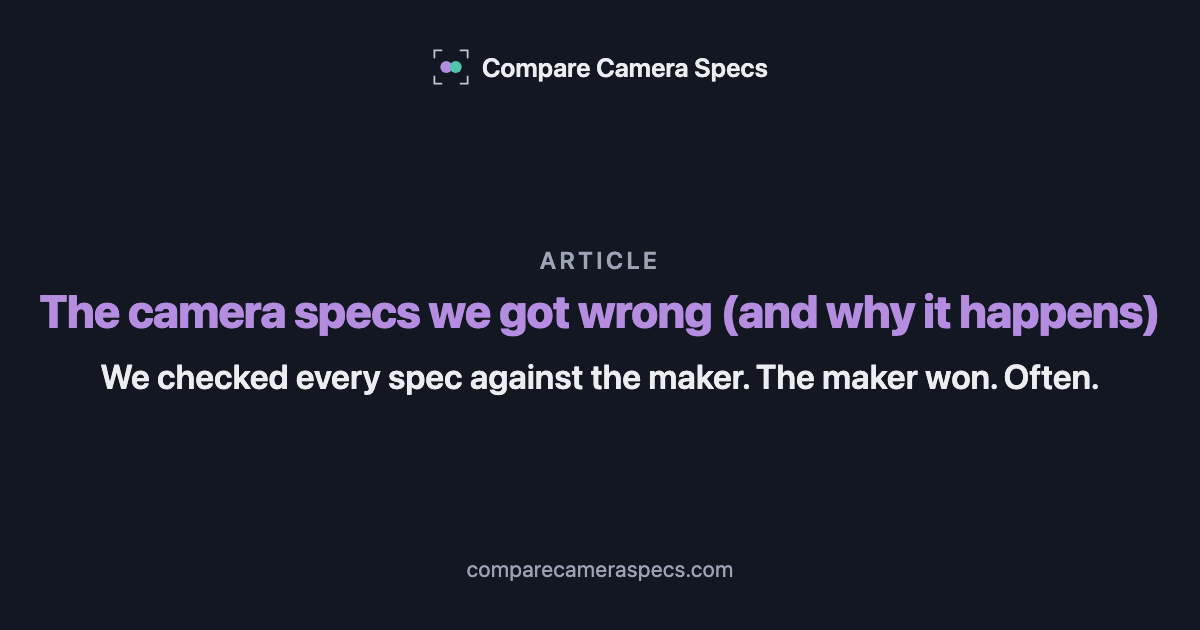
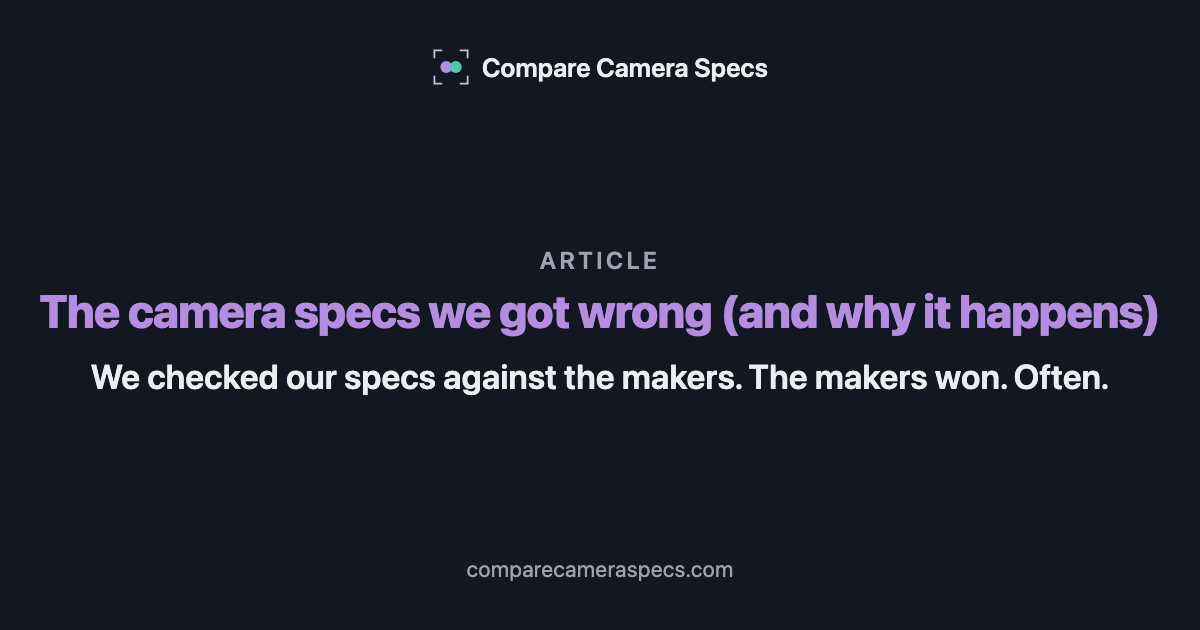
Article: explain why each spec error happened; add Wikipedia and vanishing-PDF sections
Owner review of the draft:
- Each section now says where the wrong figure came from and why the
  pattern happens: the R1 figure had no recorded source (first Canon data,
  June 2026); hand-me-downs from copying the older model (the E-PL8 note
  said "assumed similar to e-pl7"; XF16-55 II carried the 2015 lens's
  specs); blank cells read as "no viewfinder" (and the R50/R50 V muddle);
  the X-T50 named like the sealed X-T5, and no standard sealing wording.
- Sigma section: 44 of 56 current Sigma lenses are sold for several
  mounts and 34 of those weigh differently; the 56mm page lists 7 mounts
  from 256 g (MFT) to 295 g (Z); flange distance explains L vs E length.
- New: Wikipedia-sourced Olympus figures (E-M5 II battery, PEN-F,
  E-M10 II, E-PL5 body-only) and old maker pages/PDFs disappearing
  (Fujifilm, Olympus, Leica), from the Nov 2026 verification reports.
- Removed the owner's own camera; dek no longer claims "every spec";
  E-PL5 moved out of "battery out". Snapshot re-frozen.

Claude-Session: https://claude.ai/code/session_01KyXeQ289MiUa5hE497BBrD

Changed region(s): [[0.0617, 0.573, 0.925, 0.6333]]

diff --git a/content/articles/camera-specs-we-got-wrong-2026.js b/content/articles/camera-specs-we-got-wrong-2026.js
@@ -1,26 +1,39 @@
 // Article (dated, frozen): what checking every spec against the maker found,
-// Nov 2026. Findings from docs/spec-verification/2026-11-14 … 2026-11-17 and
-// the Aug 2026 Sigma L-Mount fix. Draft for the owner, 2026-11-18.
+// and why each kind of error happens, Nov 2026. Findings from
+// docs/spec-verification/2026-11-14 … 2026-11-17, the Aug–Sep 2026 Sigma
+// L-Mount fix and the Nov 2026 X-T50 / XF16-55 II fixes (#92). Draft for the
+// owner, 2026-11-18.
 'use strict';
 
 // What we used to store: history, not data, so it lives here. Each "now"
 // value comes from the snapshot and a claim checks it.
 const BEFORE = {
-  r1Weight: 1570,
+  r1Weight: 1570, // arrived in the first Canon data (June 2026) with no source
   xt100Weight: 394,
+  xf1655Weight: 655, // the 2015 XF16-55mm f/2.8's weight, carried by the II
+  epl8Weight: 357, // "assumed similar to e-pl7" in the item's own note
   summiluxLength: 81, // with the hood on
   xf55200Length: 175, // zoomed out
-  epl5Weight: 279, // body only
   gm2Length: 121.6, // the first GM's length
-  sigmaWrong: 19, sigmaChecked: 22, // L-Mount lenses carrying Sony E figures (Aug 2026)
-  fujiBatch1Mismatches: 19, fujiBatch1Cameras: 13, // Fujifilm's first batch, 2026-11-14
-  xs20Height: 84.5, // stored; Fujifilm says 85.1 mm (and UHS-II, not UHS-I)
+  sigmaWrong: 19, sigmaChecked: 22, // L-Mount lenses carrying Sony E figures (Sep 2026)
+  // Olympus figures our citations attributed to Wikipedia (Sep 2026)
+  em5iiBattery: 580, penfWeight: 434, em10iiWeight: 390, epl5Weight: 279,
+};
+// Facts read from maker pages and our verification reports, Nov 2026.
+const FOUND = {
+  em5iiBatteryEco: 750, // Olympus's power-saving-mode figure for the E-M5 II
+  sigma56Mounts: 7, // mounts on Sigma's own 56mm F1.4 DC DN page
+  flangeL: 20, flangeE: 18, // mm, L-Mount and Sony E flange distances
+  fujiGone: 10, // old Fujifilm spec pages that now redirect to the home page
+  olyGone: 10, // older Olympus cameras with no maker spec source left
+  leicaCameraPdfs: 12, leicaLensPdfs: 17, leicaLensPdfsChecked: 48,
 };
 
 const pick = (brandData, brand, kind, id, fields) => {
   const item = brandData[brand][kind][id];
   if (!item) throw new Error(`${brand}:${id} not found`);
-  const out = { name: item.name, source: (item.specSources || [])[0]?.url || null };
+  const t1 = (item.specSources || []).find(src => src.tier === 'T1');
+  const out = { name: item.name, source: (t1 || (item.specSources || [])[0] || {}).url || null };
   for (const f of fields) out[f] = item[f] ?? null;
   return out;
 };
@@ -29,7 +42,7 @@ module.exports = {
   slug: 'camera-specs-we-got-wrong-2026',
   title: 'Camera Specs We Got Wrong in 2026, and Why',
   headline: 'The camera specs we got wrong (and why it happens)',
-  dek: 'We checked every spec against the maker. The maker won. Often.',
+  dek: 'We checked our specs against the makers. The makers won. Often.',
   published: '2026-11-18',
   query: {
     text: 'camera specs wrong / which camera spec sites are accurate',
@@ -38,30 +51,50 @@ module.exports = {
 
   snapshot(brandData) {
     const cited = new Set();
+    // Sigma designs sold for several mounts: one entry per lens name per mount.
+    const sigma = new Map();
     for (const [b, data] of Object.entries(brandData)) {
       // Tier T1 = the maker's own published figures (verify-specs source tiers).
       const maker = x => (x.specSources || []).some(src => src.tier === 'T1');
       for (const [id, c] of Object.entries(data.CAMERAS)) if (maker(c)) cited.add(`camera|${b}|${id}`);
-      for (const l of Object.values(data.LENSES)) if (maker(l)) cited.add(`lens|${l.mount}|${l.manufacturer}|${l.name}`);
+      for (const l of Object.values(data.LENSES)) {
+        if (maker(l)) cited.add(`lens|${l.mount}|${l.manufacturer}|${l.name}`);
+        if (l.manufacturer === 'Sigma' && !l.discontinued && !l.preRelease) {
+          const m = sigma.get(l.name) || new Map();
+          m.set(l.mount, l.weight);
+          sigma.set(l.name, m);
+        }
+      }
     }
+    const multi = [...sigma.values()].filter(m => m.size > 1);
     return {
       cited: cited.size,
+      sigmaLenses: sigma.size,
+      sigmaMulti: multi.length,
+      sigmaMultiWeightDiffers: multi.filter(m => new Set(m.values()).size > 1).length,
       r1: pick(brandData, 'canon', 'CAMERAS', 'eos-r1', ['weight']),
-      r50v: pick(brandData, 'canon', 'CAMERAS', 'eos-r50v', ['width', 'height', 'depth']),
-      r50: pick(brandData, 'canon', 'CAMERAS', 'eos-r50', ['width', 'height', 'depth', 'evfType']),
+      r50v: pick(brandData, 'canon', 'CAMERAS', 'eos-r50v', ['width', 'height', 'depth', 'weight', 'evfType']),
+      r50: pick(brandData, 'canon', 'CAMERAS', 'eos-r50', ['width', 'height', 'depth', 'weight', 'evfType']),
       r100: pick(brandData, 'canon', 'CAMERAS', 'eos-r100', ['evfType']),
       xt100: pick(brandData, 'fujifilm', 'CAMERAS', 'x-t100', ['weight', 'evfType']),
       xt200: pick(brandData, 'fujifilm', 'CAMERAS', 'x-t200', ['evfType']),
       xt50: pick(brandData, 'fujifilm', 'CAMERAS', 'x-t50', ['weatherSealed']),
-      xs20: pick(brandData, 'fujifilm', 'CAMERAS', 'x-s20', ['height', 'cardSlots']),
+      xt5: { ...pick(brandData, 'fujifilm', 'CAMERAS', 'x-t5', ['weatherSealed']), source: 'https://www.fujifilm-x.com/global/products/cameras/x-t5/' },
       r8: pick(brandData, 'canon', 'CAMERAS', 'eos-r8', ['weatherSealed']),
-      om5ii: pick(brandData, 'olympus', 'CAMERAS', 'om-5-ii', ['depth']),
+      xf1655: pick(brandData, 'fujifilm', 'LENSES', 'xf-16-55mm-f28-ii', ['weight']),
+      epl8: pick(brandData, 'olympus', 'CAMERAS', 'e-pl8', ['weight']),
       summilux: pick(brandData, 'leica', 'LENSES', 'summilux-m-28mm-f14-asph', ['length']),
       xf55200: pick(brandData, 'fujifilm', 'LENSES', 'xf-55-200mm-f35-48', ['length']),
-      epl5: pick(brandData, 'olympus', 'CAMERAS', 'e-pl5', ['weight']),
       gm2: pick(brandData, 'sony', 'LENSES', 'fe-16-35mm-f28-gm-ii', ['length']),
       gm1: pick(brandData, 'sony', 'LENSES', 'fe-16-35mm-f28-gm', ['length']),
       sigma: pick(brandData, 'sigma', 'LENSES', 'sigma-24-70mm-f28-dg-ii', ['length']),
+      sigma100400: pick(brandData, 'sigma', 'LENSES', 'sigma-100-400mm-f5-63-dg', ['weatherSealed']),
+      sigma56mft: pick(brandData, 'panasonic', 'LENSES', 'sigma-56mm-f14-mft', ['weight']),
+      sigma56z: pick(brandData, 'nikon', 'LENSES', 'sigma-56mm-f14', ['weight']),
+      em5ii: pick(brandData, 'olympus', 'CAMERAS', 'e-m5-ii', ['batteryLife']),
+      penf: pick(brandData, 'olympus', 'CAMERAS', 'pen-f', ['weight']),
+      em10ii: pick(brandData, 'olympus', 'CAMERAS', 'e-m10-ii', ['weight']),
+      epl5: pick(brandData, 'olympus', 'CAMERAS', 'e-pl5', ['weight']),
     };
   },
 
@@ -72,61 +105,89 @@ module.exports = {
   claims(s) {
     return [
       ['The EOS R1 weighs 1,115 g, 455 g less than we listed', s.r1.weight === 1115 && BEFORE.r1Weight - s.r1.weight === 455],
+      ['The 455 g gap is heavier than a whole EOS R50', BEFORE.r1Weight - s.r1.weight > s.r50.weight],
       ['The EOS R50 V is much thinner than the EOS R50 whose figures it carried', s.r50.depth - s.r50v.depth > 20],
+      ['The XF 16-55mm f/2.8 II weighs 410 g, not the original’s 655 g', s.xf1655.weight === 410],
+      ['The E-PL8 is not the weight we assumed from the E-PL7', s.epl8.weight !== BEFORE.epl8Weight],
       ['The EOS R50, EOS R100, X-T100 and X-T200 all have an EVF', [s.r50, s.r100, s.xt100, s.xt200].every(c => c.evfType === 'EVF')],
+      ['The EOS R50 V has no viewfinder', s.r50v.evfType == null],
       ['The X-T100 weighs 448 g, 54 g more than we listed', s.xt100.weight === 448 && s.xt100.weight - BEFORE.xt100Weight === 54],
-      ['The X-T50 is not weather-sealed; the EOS R8 is weather-resistant', s.xt50.weatherSealed === false && s.r8.weatherSealed === true],
+      ['The X-T50 is not weather-sealed; the X-T5 is; the EOS R8 is weather-resistant', s.xt50.weatherSealed === false && s.xt5.weatherSealed === true && s.r8.weatherSealed === true],
+      ['A mount gasket alone does not count as sealed (Sigma 100-400mm)', s.sigma100400.weatherSealed === false],
       ['The Summilux-M 28mm is 67 mm long without its hood', s.summilux.length === 67],
       ['The XF 55-200mm is 118 mm long at rest', s.xf55200.length === 118],
-      ['The E-PL5 weighs 325 g with battery and card', s.epl5.weight === 325],
       ['The FE 16-35mm GM II is shorter than the GM it replaced', s.gm2.length === 111.5 && s.gm1.length === BEFORE.gm2Length],
-      ['Every finding links its maker source', ['r1', 'r50v', 'r100', 'xt100', 'xt200', 'xt50', 'xs20', 'r8', 'summilux', 'xf55200', 'epl5', 'gm2', 'sigma'].every(k => /^https:/.test(s[k].source || ''))],
-      ['More than 800 cameras and lenses cite the maker\u2019s own figures', s.cited > 800],
-      ['The X-S20 is 85.1 mm tall (0.6 mm more than we had) and takes UHS-II cards', s.xs20.height === 85.1 && /UHS-II/.test(s.xs20.cardSlots || '')],
+      ['Most current Sigma lenses are sold for more than one mount, and most of those weigh differently by mount',
+        s.sigmaMulti > s.sigmaLenses / 2 && s.sigmaMultiWeightDiffers > s.sigmaMulti / 2],
+      ['Sigma’s 56mm f/1.4 weighs 256 g on Micro Four Thirds and 295 g on Nikon Z', s.sigma56mft.weight === 256 && s.sigma56z.weight === 295],
+      ['Olympus: E-M5 II battery 310 shots, PEN-F 427 g, E-M10 II 399 g, E-PL5 325 g',
+        s.em5ii.batteryLife === 310 && s.penf.weight === 427 && s.em10ii.weight === 399 && s.epl5.weight === 325],
+      ['Every finding links its maker source',
+        ['r1', 'r50v', 'r100', 'xt100', 'xt200', 'xt50', 'xt5', 'r8', 'xf1655', 'epl8', 'summilux', 'xf55200', 'gm2', 'sigma', 'sigma100400', 'sigma56z', 'em5ii', 'penf', 'em10ii', 'epl5']
+          .every(k => /^https:/.test(s[k].source || ''))],
+      ['More than 800 cameras and lenses cite the maker’s own figures', s.cited > 800],
     ];
   },
 
   render(s, k) {
     const mm = n => `${n} mm`;
+    const g = n => `${n.toLocaleString('en-US')} g`;
     return `
-<p class="guide-answer">We checked ${s.cited.toLocaleString('en-US')} cameras and lenses against their makers' own spec pages. Among the misses: a Canon EOS R1 listed <strong>${BEFORE.r1Weight - s.r1.weight} g</strong> too heavy, four cameras listed without the viewfinder they actually have, and a camera wearing its sibling's dimensions.</p>
+<p class="guide-answer">When we went back to the makers' own spec pages, we found a Canon EOS R1 listed <strong>${BEFORE.r1Weight - s.r1.weight} g</strong> too heavy, four cameras listed without the viewfinder they actually have, and a camera wearing its sibling's dimensions.</p>
 
-<p>Spec sites copy from each other. So did we. Here's what turned up when we went back to the source, and the patterns behind it, so you can spot them elsewhere.</p>
+<p>Most wrong specs aren't typos. They're numbers from the wrong place: an older model, a different mount, a secondhand source, or nowhere at all. Here's what we found, and why each one happened.</p>
 
 <h2>1. The phantom 455 grams</h2>
-<p>We had Canon's flagship EOS R1 at ${BEFORE.r1Weight.toLocaleString('en-US')} g. ${k.src(s.r1.source, 'Canon says')} ${s.r1.weight.toLocaleString('en-US')} g with battery and card. That's a whole prime lens of difference.</p>
-<p>See the corrected numbers in the ${k.a('canon/vs/eos-r1-vs-eos-r3', 'EOS R1 vs EOS R3 comparison')}.</p>
+<p>We had Canon's flagship EOS R1 at ${g(BEFORE.r1Weight)}. ${k.src(s.r1.source, 'Canon says')} ${g(s.r1.weight)} with battery and card. The gap alone weighs more than an entire EOS R50.</p>
+<p>Where did ${g(BEFORE.r1Weight)} come from? Honestly, we don't know. It arrived with our first batch of Canon data in June 2026, put together with the help of an AI assistant, and no source was recorded. The rest of that entry was off too: the size, the megapixels and the screen.</p>
+<p>That's the real lesson. A number without a source can't be checked, so nobody ever fixes it. See the corrected figures in the ${k.a('canon/vs/eos-r1-vs-eos-r3', 'EOS R1 vs EOS R3 comparison')}.</p>
 
 <h2>2. Hand-me-down specs</h2>
-<p>The classic: a new model inheriting its older sibling's numbers. The EOS R50 V carried the EOS R50's dimensions. ${k.src(s.r50v.source, 'In reality')} it's ${mm(s.r50v.depth)} deep, not ${mm(s.r50.depth)}.</p>
-<p>Same story for the OM-5 II (it had the OM-5's depth) and Sony's FE 16-35mm GM II, which carried the first GM's length of ${mm(s.gm1.length)}. ${k.src(s.gm2.source, 'Sony lists')} ${mm(s.gm2.length)}.</p>
-<p>See how different the R50 V really is in the ${k.a('canon/size/eos-r50v-vs-eos-r50', 'EOS R50 V vs EOS R50 size comparison')}.</p>
+<p>A classic: a new model carrying its predecessor's numbers. The EOS R50 V had the EOS R50's dimensions and weight. ${k.src(s.r50v.source, 'In reality')} it's ${mm(s.r50v.depth)} deep, not ${mm(s.r50.depth)}.</p>
+<p>Fujifilm's XF 16-55mm f/2.8 II carried the 2015 original's specs: ${g(BEFORE.xf1655Weight)} instead of ${k.src(s.xf1655.source, `${g(s.xf1655.weight)}`)}. The OM-5 II had the OM-5's depth, and Sony's FE 16-35mm GM II had the first GM's length (${k.src(s.gm2.source, `${mm(s.gm2.length)}`)}, not ${mm(s.gm1.length)}).</p>
+<p>Why? The quick way to add a new model is to start from the old one and change what the launch news mentions. Launch news is about sensors and autofocus, not millimeters, so the old size and weight ride along. Our own note on the Olympus E-PL8 said it outright: dimensions "assumed similar to e-pl7". ${k.src(s.epl8.source, "They weren't")}.</p>
+<p>See how different the R50 V really is in the ${k.a('canon/size/eos-r50v-vs-eos-r50', 'EOS R50 V vs EOS R50 size comparison')}, or the ${k.a('olympus/vs/om-5-ii-vs-om-5', 'OM-5 II vs OM-5')}.</p>
 
 <h2>3. The viewfinders that vanished</h2>
-<p>Four cameras were listed with no viewfinder at all: Canon's EOS R50 and EOS R100, and Fujifilm's X-T100 and X-T200. All four have an electronic viewfinder, as ${k.src(s.r100.source, 'Canon')} and ${k.src(s.xt200.source, 'Fujifilm')} list.</p>
+<p>Four cameras were listed with no viewfinder: Canon's EOS R50 and EOS R100, and Fujifilm's X-T100 and X-T200. All four have an electronic viewfinder, as ${k.src(s.r100.source, 'Canon')} and ${k.src(s.xt200.source, 'Fujifilm')} list.</p>
+<p>Why? In a spec table, "we don't know" and "it doesn't have one" look exactly the same: an empty cell. All four are entry-level bodies, where a missing viewfinder sounds believable, so nobody questioned the blank.</p>
+<p>The R50 also has a near-twin that really has no viewfinder: the EOS R50 V. Our R50 V had the R50's size, and our R50 had the R50 V's missing viewfinder. It looks like the two got muddled.</p>
 <p>The X-T100 was also ${s.xt100.weight - BEFORE.xt100Weight} g light: ${k.src(s.xt100.source, 'Fujifilm says')} ${s.xt100.weight} g, not ${BEFORE.xt100Weight}. Compare the ${k.a('canon/vs/eos-r50-vs-eos-r100', 'EOS R50 and EOS R100')}, or the ${k.a('fujifilm/#cameras=x-t100,x-t200', 'X-T100 and X-T200')}.</p>
 
 <h2>4. Weather sealing, both ways</h2>
-<p>We had the Fujifilm X-T50 down as weather-sealed. ${k.src(s.xt50.source, 'Fujifilm never says so')}, and it isn't.</p>
-<p>The Canon EOS R8 went the other way: we had it unsealed, but ${k.src(s.r8.source, 'Canon lists')} "weather-resistant construction". See the ${k.a('fujifilm/vs/x-t50-vs-x100v', 'X-T50 vs X100V')} and ${k.a('canon/vs/eos-r8-vs-eos-r10', 'EOS R8 vs EOS R10')} comparisons.</p>
+<p>We had the Fujifilm X-T50 down as weather-sealed. ${k.src(s.xt50.source, 'Fujifilm never says so')}, and reviewers list the lack of sealing as a downside.</p>
+<p>The likely culprit is its name. The X-T50 sounds like a smaller X-T5, and the X-T5 ${k.src(s.xt5.source, 'has 56 weather-sealed points')}. Family resemblance isn't a spec.</p>
+<p>The Canon EOS R8 went the other way: we had it unsealed, but ${k.src(s.r8.source, 'Canon lists')} "weather-resistant construction".</p>
+<p>Why is this so easy to get wrong? There's no standard. Canon says "weather-resistant", Sigma says "dust and splash resistant", and on its ${k.src(s.sigma100400.source, '100-400mm')} that means a seal at the mount only. Many makers just say nothing. Silence isn't a no, but it isn't a yes either. We now mark a camera or lens sealed only when its maker says so. See the ${k.a('fujifilm/vs/x-t50-vs-x100v', 'X-T50 vs X100V')} and ${k.a('canon/vs/eos-r8-vs-eos-r10', 'EOS R8 vs EOS R10')}.</p>
 
-<h2>5. Hood on, zoomed out, battery out</h2>
+<h2>5. Hood on, zoomed out</h2>
 <p>Some numbers aren't wrong, just measured differently. Leica's Summilux-M 28mm f/1.4 was ${mm(BEFORE.summiluxLength)} long with its hood on; ${k.src(s.summilux.source, 'without it')} it's ${mm(s.summilux.length)}.</p>
-<p>Fujifilm's XF 55-200mm was listed at ${mm(BEFORE.xf55200Length)}, its length zoomed all the way out. ${k.src(s.xf55200.source, 'At rest')} it's ${mm(s.xf55200.length)}. And the Olympus E-PL5 was ${BEFORE.epl5Weight} g body only; ${k.src(s.epl5.source, 'with battery and card')} it's ${s.epl5.weight} g, the way we list every camera.</p>
+<p>Fujifilm's XF 55-200mm was listed at ${mm(BEFORE.xf55200Length)}, its length zoomed all the way out. ${k.src(s.xf55200.source, 'At rest')} it's ${mm(s.xf55200.length)}.</p>
 
-<h2>6. Right lens, wrong mount</h2>
-<p>Third-party lenses are made for several mounts, and the sizes differ. ${BEFORE.sigmaWrong} of the ${BEFORE.sigmaChecked} Sigma L-Mount lenses we checked were carrying their Sony E-mount dimensions.</p>
-<p>${k.src(s.sigma.source, 'Sigma’s spec tables')} list each mount separately, and the L-Mount versions are usually a couple of millimeters shorter. Browse the corrected ${k.a('mount/l-mount', 'L-Mount lenses')}.</p>
+<h2>6. Same lens, many mounts</h2>
+<p>Sigma makes most of its lenses for several camera systems. Of the ${s.sigmaLenses} current Sigma lenses in our database, ${s.sigmaMulti} are sold for more than one mount, and ${s.sigmaMultiWeightDiffers} of those weigh differently from one mount to the next.</p>
+<p>${k.src(s.sigma56z.source, "Sigma's page for the 56mm f/1.4")} lists ${FOUND.sigma56Mounts} mounts, from ${g(s.sigma56mft.weight)} on Micro Four Thirds to ${g(s.sigma56z.weight)} on Nikon Z. Each mount has its own diameter and sits a different distance from the sensor, so the barrel changes. Same glass, different lens.</p>
+<p>That's what caught us. ${BEFORE.sigmaWrong} of the ${BEFORE.sigmaChecked} Sigma L-Mount lenses we checked were carrying their Sony E-mount dimensions, read from the wrong row of ${k.src(s.sigma.source, "Sigma's spec table")}. L-Mount sits ${FOUND.flangeL - FOUND.flangeE} mm further from the sensor than Sony E (${FOUND.flangeL} mm vs ${FOUND.flangeE} mm), so L-Mount barrels are usually about ${FOUND.flangeL - FOUND.flangeE} mm shorter. Browse the corrected ${k.a('mount/l-mount', 'L-Mount lenses')}, or ${k.a('mount/z-mount', 'every Nikon Z lens')}.</p>
+
+<h2>7. Wikipedia isn't the maker</h2>
+<p>When we first added ${k.a('olympus/', 'Olympus')}, most of its cameras cited Wikipedia. Then we checked them against Olympus's own spec sheets.</p>
+<p>The E-M5 Mark II's battery life, as we'd taken it from Wikipedia, was ${BEFORE.em5iiBattery} shots. ${k.src(s.em5ii.source, 'Olympus says')} ${s.em5ii.batteryLife}, or ${FOUND.em5iiBatteryEco} in power-saving mode. ${BEFORE.em5iiBattery} matches neither. The PEN-F was ${BEFORE.penfWeight - s.penf.weight} g off and the E-M10 Mark II ${s.em10ii.weight - BEFORE.em10iiWeight} g.</p>
+<p>And the E-PL5's ${BEFORE.epl5Weight} g wasn't wrong, just body only. ${k.src(s.epl5.source, 'With battery and card')}, the way we list every camera, it's ${s.epl5.weight} g. Wikipedia is only as good as the reviews and spec sites it cites, which brings us back to everyone copying everyone.</p>
+
+<h2>8. When the maker's page disappears</h2>
+<p>Makers quietly delete old spec pages. For ${FOUND.fujiGone} older Fujifilm cameras, including the original X100 and X-Pro1, the spec pages now redirect to Fujifilm's home page. Only the owner's manuals are left.</p>
+<p>Olympus is worse: ${FOUND.olyGone} older cameras have no maker spec page left at all. For others, the archive is a picture of the old page, which we had to run through text recognition, in Japanese.</p>
+<p>${k.a('leica/', 'Leica')}'s PDFs vanish too: ${FOUND.leicaCameraPdfs} of the camera spec sheets we'd cited, and ${FOUND.leicaLensPdfs} of ${FOUND.leicaLensPdfsChecked} lens sheets, now return errors. Once the maker's page is gone, the secondhand copies become the only record, mistakes and all.</p>
 
 <h2>How to spot a bad spec</h2>
 <ul class="guide-links">
 <li><strong>Two models, same numbers?</strong> Suspicious. New bodies rarely match old ones to the millimeter.</li>
-<li><strong>Check what's included.</strong> Battery and card? Hood? Zoomed in or out?</li>
+<li><strong>Check what's included.</strong> Battery and card? Hood? Zoomed in or out? Which mount?</li>
 <li><strong>Go to the maker.</strong> If the maker doesn't claim it (weather sealing, especially), don't believe it.</li>
+<li><strong>No source, no trust.</strong> A figure nobody can trace is a guess.</li>
 </ul>
-<p>Nobody's safe. Fujifilm, the brand I shoot with, had ${BEFORE.fujiBatch1Mismatches} mismatches across its first ${BEFORE.fujiBatch1Cameras} cameras. Even my own X-S20 was ${(s.xs20.height - BEFORE.xs20Height).toFixed(1)} mm too short and missing its ${k.src(s.xs20.source, 'UHS-II card support')}.</p>
 
 <h2>What we do now</h2>
-<p>Every camera and lens we've checked now links to its maker's own spec page, shown under References in the ${k.a('compare/', 'comparison tool')}. That's ${s.cited.toLocaleString('en-US')} so far, and counting. ${k.a('about', 'How we source our data')}.</p>`;
+<p>Every camera and lens we check now links to its maker's own spec page, shown under References in the ${k.a('compare/', 'comparison tool')}. That's ${s.cited.toLocaleString('en-US')} so far, and counting. ${k.a('about', 'How we source our data')}.</p>`;
   },
 };

diff --git a/articles/camera-specs-we-got-wrong-2026.html b/articles/camera-specs-we-got-wrong-2026.html
@@ -149,47 +149,64 @@
   <main class="guide-main">
     <article class="guide">
       <h1>The camera specs we got wrong (and why it happens)</h1>
-      <p class="guide-dek">We checked every spec against the maker. The maker won. Often.</p>
+      <p class="guide-dek">We checked our specs against the makers. The makers won. Often.</p>
       <p class="guide-byline">By Compare Camera Specs &middot; Published <time datetime="2026-11-18">18 November 2026</time></p>
-<p class="guide-answer">We checked 1,369 cameras and lenses against their makers' own spec pages. Among the misses: a Canon EOS R1 listed <strong>455 g</strong> too heavy, four cameras listed without the viewfinder they actually have, and a camera wearing its sibling's dimensions.</p>
+<p class="guide-answer">When we went back to the makers' own spec pages, we found a Canon EOS R1 listed <strong>455 g</strong> too heavy, four cameras listed without the viewfinder they actually have, and a camera wearing its sibling's dimensions.</p>
 
-<p>Spec sites copy from each other. So did we. Here's what turned up when we went back to the source, and the patterns behind it, so you can spot them elsewhere.</p>
+<p>Most wrong specs aren't typos. They're numbers from the wrong place: an older model, a different mount, a secondhand source, or nowhere at all. Here's what we found, and why each one happened.</p>
 
 <h2>1. The phantom 455 grams</h2>
-<p>We had Canon's flagship EOS R1 at 1,570 g. <a href="https://www.canon.co.uk/cameras/eos-r1/specifications/" target="_blank" rel="noopener" data-goatcounter-click="article-link:camera-specs-we-got-wrong-2026:source:canon.co.uk" data-goatcounter-title="Article source: canon.co.uk">Canon says</a> 1,115 g with battery and card. That's a whole prime lens of difference.</p>
-<p>See the corrected numbers in the <a href="../canon/vs/eos-r1-vs-eos-r3" data-goatcounter-click="article-link:camera-specs-we-got-wrong-2026:canon/vs/eos-r1-vs-eos-r3" data-goatcounter-title="Article link: EOS R1 vs EOS R3 comparison">EOS R1 vs EOS R3 comparison</a>.</p>
+<p>We had Canon's flagship EOS R1 at 1,570 g. <a href="https://www.canon.co.uk/cameras/eos-r1/specifications/" target="_blank" rel="noopener" data-goatcounter-click="article-link:camera-specs-we-got-wrong-2026:source:canon.co.uk" data-goatcounter-title="Article source: canon.co.uk">Canon says</a> 1,115 g with battery and card. The gap alone weighs more than an entire EOS R50.</p>
+<p>Where did 1,570 g come from? Honestly, we don't know. It arrived with our first batch of Canon data in June 2026, put together with the help of an AI assistant, and no source was recorded. The rest of that entry was off too: the size, the megapixels and the screen.</p>
+<p>That's the real lesson. A number without a source can't be checked, so nobody ever fixes it. See the corrected figures in the <a href="../canon/vs/eos-r1-vs-eos-r3" data-goatcounter-click="article-link:camera-specs-we-got-wrong-2026:canon/vs/eos-r1-vs-eos-r3" data-goatcounter-title="Article link: EOS R1 vs EOS R3 comparison">EOS R1 vs EOS R3 comparison</a>.</p>
 
 <h2>2. Hand-me-down specs</h2>
-<p>The classic: a new model inheriting its older sibling's numbers. The EOS R50 V carried the EOS R50's dimensions. <a href="https://www.canon.co.uk/cameras/eos-r50v/specifications/" target="_blank" rel="noopener" data-goatcounter-click="article-link:camera-specs-we-got-wrong-2026:source:canon.co.uk" data-goatcounter-title="Article source: canon.co.uk">In reality</a> it's 45.2 mm deep, not 68.8 mm.</p>
-<p>Same story for the OM-5 II (it had the OM-5's depth) and Sony's FE 16-35mm GM II, which carried the first GM's length of 121.6 mm. <a href="https://electronics.sony.com/imaging/lenses/full-frame-e-mount/p/sel1635gm2" target="_blank" rel="noopener" data-goatcounter-click="article-link:camera-specs-we-got-wrong-2026:source:electronics.sony.com" data-goatcounter-title="Article source: electronics.sony.com">Sony lists</a> 111.5 mm.</p>
-<p>See how different the R50 V really is in the <a href="../canon/size/eos-r50v-vs-eos-r50" data-goatcounter-click="article-link:camera-specs-we-got-wrong-2026:canon/size/eos-r50v-vs-eos-r50" data-goatcounter-title="Article link: EOS R50 V vs EOS R50 size comparison">EOS R50 V vs EOS R50 size comparison</a>.</p>
+<p>A classic: a new model carrying its predecessor's numbers. The EOS R50 V had the EOS R50's dimensions and weight. <a href="https://www.canon.co.uk/cameras/eos-r50v/specifications/" target="_blank" rel="noopener" data-goatcounter-click="article-link:camera-specs-we-got-wrong-2026:source:canon.co.uk" data-goatcounter-title="Article source: canon.co.uk">In reality</a> it's 45.2 mm deep, not 68.8 mm.</p>
+<p>Fujifilm's XF 16-55mm f/2.8 II carried the 2015 original's specs: 655 g instead of <a href="https://www.fujifilm-x.com/global/products/lenses/xf16-55mmf28-r-lm-wr-ii/specifications/" target="_blank" rel="noopener" data-goatcounter-click="article-link:camera-specs-we-got-wrong-2026:source:fujifilm-x.com" data-goatcounter-title="Article source: fujifilm-x.com">410 g</a>. The OM-5 II had the OM-5's depth, and Sony's FE 16-35mm GM II had the first GM's length (<a href="https://electronics.sony.com/imaging/lenses/full-frame-e-mount/p/sel1635gm2" target="_blank" rel="noopener" data-goatcounter-click="article-link:camera-specs-we-got-wrong-2026:source:electronics.sony.com" data-goatcounter-title="Article source: electronics.sony.com">111.5 mm</a>, not 121.6 mm).</p>
+<p>Why? The quick way to add a new model is to start from the old one and change what the launch news mentions. Launch news is about sensors and autofocus, not millimeters, so the old size and weight ride along. Our own note on the Olympus E-PL8 said it outright: dimensions "assumed similar to e-pl7". <a href="https://jp.omsystem.com/cms/record/dslr/epl8/spec.pdf" target="_blank" rel="noopener" data-goatcounter-click="article-link:camera-specs-we-got-wrong-2026:source:jp.omsystem.com" data-goatcounter-title="Article source: jp.omsystem.com">They weren't</a>.</p>
+<p>See how different the R50 V really is in the <a href="../canon/size/eos-r50v-vs-eos-r50" data-goatcounter-click="article-link:camera-specs-we-got-wrong-2026:canon/size/eos-r50v-vs-eos-r50" data-goatcounter-title="Article link: EOS R50 V vs EOS R50 size comparison">EOS R50 V vs EOS R50 size comparison</a>, or the <a href="../olympus/vs/om-5-ii-vs-om-5" data-goatcounter-click="article-link:camera-specs-we-got-wrong-2026:olympus/vs/om-5-ii-vs-om-5" data-goatcounter-title="Article link: OM-5 II vs OM-5">OM-5 II vs OM-5</a>.</p>
 
 <h2>3. The viewfinders that vanished</h2>
-<p>Four cameras were listed with no viewfinder at all: Canon's EOS R50 and EOS R100, and Fujifilm's X-T100 and X-T200. All four have an electronic viewfinder, as <a href="https://www.canon.co.uk/cameras/eos-r100/specifications/" target="_blank" rel="noopener" data-goatcounter-click="article-link:camera-specs-we-got-wrong-2026:source:canon.co.uk" data-goatcounter-title="Article source: canon.co.uk">Canon</a> and <a href="https://www.fujifilm-x.com/en-us/products/cameras/x-t200/" target="_blank" rel="noopener" data-goatcounter-click="article-link:camera-specs-we-got-wrong-2026:source:fujifilm-x.com" data-goatcounter-title="Article source: fujifilm-x.com">Fujifilm</a> list.</p>
+<p>Four cameras were listed with no viewfinder: Canon's EOS R50 and EOS R100, and Fujifilm's X-T100 and X-T200. All four have an electronic viewfinder, as <a href="https://www.canon.co.uk/cameras/eos-r100/specifications/" target="_blank" rel="noopener" data-goatcounter-click="article-link:camera-specs-we-got-wrong-2026:source:canon.co.uk" data-goatcounter-title="Article source: canon.co.uk">Canon</a> and <a href="https://www.fujifilm-x.com/en-us/products/cameras/x-t200/" target="_blank" rel="noopener" data-goatcounter-click="article-link:camera-specs-we-got-wrong-2026:source:fujifilm-x.com" data-goatcounter-title="Article source: fujifilm-x.com">Fujifilm</a> list.</p>
+<p>Why? In a spec table, "we don't know" and "it doesn't have one" look exactly the same: an empty cell. All four are entry-level bodies, where a missing viewfinder sounds believable, so nobody questioned the blank.</p>
+<p>The R50 also has a near-twin that really has no viewfinder: the EOS R50 V. Our R50 V had the R50's size, and our R50 had the R50 V's missing viewfinder. It looks like the two got muddled.</p>
 <p>The X-T100 was also 54 g light: <a href="https://www.fujifilm-x.com/en-us/products/cameras/x-t100/" target="_blank" rel="noopener" data-goatcounter-click="article-link:camera-specs-we-got-wrong-2026:source:fujifilm-x.com" data-goatcounter-title="Article source: fujifilm-x.com">Fujifilm says</a> 448 g, not 394. Compare the <a href="../canon/vs/eos-r50-vs-eos-r100" data-goatcounter-click="article-link:camera-specs-we-got-wrong-2026:canon/vs/eos-r50-vs-eos-r100" data-goatcounter-title="Article link: EOS R50 and EOS R100">EOS R50 and EOS R100</a>, or the <a href="../fujifilm/#cameras=x-t100,x-t200" data-goatcounter-click="article-link:camera-specs-we-got-wrong-2026:fujifilm/" data-goatcounter-title="Article link: X-T100 and X-T200">X-T100 and X-T200</a>.</p>
 
 <h2>4. Weather sealing, both ways</h2>
-<p>We had the Fujifilm X-T50 down as weather-sealed. <a href="https://www.fujifilm-x.com/global/products/cameras/x-t50/specifications/" target="_blank" rel="noopener" data-goatcounter-click="article-link:camera-specs-we-got-wrong-2026:source:fujifilm-x.com" data-goatcounter-title="Article source: fujifilm-x.com">Fujifilm never says so</a>, and it isn't.</p>
-<p>The Canon EOS R8 went the other way: we had it unsealed, but <a href="https://www.canon.co.uk/cameras/eos-r8/specifications/" target="_blank" rel="noopener" data-goatcounter-click="article-link:camera-specs-we-got-wrong-2026:source:canon.co.uk" data-goatcounter-title="Article source: canon.co.uk">Canon lists</a> "weather-resistant construction". See the <a href="../fujifilm/vs/x-t50-vs-x100v" data-goatcounter-click="article-link:camera-specs-we-got-wrong-2026:fujifilm/vs/x-t50-vs-x100v" data-goatcounter-title="Article link: X-T50 vs X100V">X-T50 vs X100V</a> and <a href="../canon/vs/eos-r8-vs-eos-r10" data-goatcounter-click="article-link:camera-specs-we-got-wrong-2026:canon/vs/eos-r8-vs-eos-r10" data-goatcounter-title="Article link: EOS R8 vs EOS R10">EOS R8 vs EOS R10</a> comparisons.</p>
+<p>We had the Fujifilm X-T50 down as weather-sealed. <a href="https://www.fujifilm-x.com/global/products/cameras/x-t50/specifications/" target="_blank" rel="noopener" data-goatcounter-click="article-link:camera-specs-we-got-wrong-2026:source:fujifilm-x.com" data-goatcounter-title="Article source: fujifilm-x.com">Fujifilm never says so</a>, and reviewers list the lack of sealing as a downside.</p>
+<p>The likely culprit is its name. The X-T50 sounds like a smaller X-T5, and the X-T5 <a href="https://www.fujifilm-x.com/global/products/cameras/x-t5/" target="_blank" rel="noopener" data-goatcounter-click="article-link:camera-specs-we-got-wrong-2026:source:fujifilm-x.com" data-goatcounter-title="Article source: fujifilm-x.com">has 56 weather-sealed points</a>. Family resemblance isn't a spec.</p>
+<p>The Canon EOS R8 went the other way: we had it unsealed, but <a href="https://www.canon.co.uk/cameras/eos-r8/specifications/" target="_blank" rel="noopener" data-goatcounter-click="article-link:camera-specs-we-got-wrong-2026:source:canon.co.uk" data-goatcounter-title="Article source: canon.co.uk">Canon lists</a> "weather-resistant construction".</p>
+<p>Why is this so easy to get wrong? There's no standard. Canon says "weather-resistant", Sigma says "dust and splash resistant", and on its <a href="https://www.sigma-global.com/en/lenses/c020_100_400_5_63/" target="_blank" rel="noopener" data-goatcounter-click="article-link:camera-specs-we-got-wrong-2026:source:sigma-global.com" data-goatcounter-title="Article source: sigma-global.com">100-400mm</a> that means a seal at the mount only. Many makers just say nothing. Silence isn't a no, but it isn't a yes either. We now mark a camera or lens sealed only when its maker says so. See the <a href="../fujifilm/vs/x-t50-vs-x100v" data-goatcounter-click="article-link:camera-specs-we-got-wrong-2026:fujifilm/vs/x-t50-vs-x100v" data-goatcounter-title="Article link: X-T50 vs X100V">X-T50 vs X100V</a> and <a href="../canon/vs/eos-r8-vs-eos-r10" data-goatcounter-click="article-link:camera-specs-we-got-wrong-2026:canon/vs/eos-r8-vs-eos-r10" data-goatcounter-title="Article link: EOS R8 vs EOS R10">EOS R8 vs EOS R10</a>.</p>
 
-<h2>5. Hood on, zoomed out, battery out</h2>
+<h2>5. Hood on, zoomed out</h2>
 <p>Some numbers aren't wrong, just measured differently. Leica's Summilux-M 28mm f/1.4 was 81 mm long with its hood on; <a href="https://leica-camera.com/sites/default/files/pm-14481-Technical-Data_Leica-Summilux-M_1-4_28mm_EN_2.pdf" target="_blank" rel="noopener" data-goatcounter-click="article-link:camera-specs-we-got-wrong-2026:source:leica-camera.com" data-goatcounter-title="Article source: leica-camera.com">without it</a> it's 67 mm.</p>
-<p>Fujifilm's XF 55-200mm was listed at 175 mm, its length zoomed all the way out. <a href="https://www.fujifilm-x.com/global/products/lenses/xf55-200mmf35-48-r-lm-ois/specifications/" target="_blank" rel="noopener" data-goatcounter-click="article-link:camera-specs-we-got-wrong-2026:source:fujifilm-x.com" data-goatcounter-title="Article source: fujifilm-x.com">At rest</a> it's 118 mm. And the Olympus E-PL5 was 279 g body only; <a href="https://jp.omsystem.com/cms/record/dslr/epl5/spec.pdf" target="_blank" rel="noopener" data-goatcounter-click="article-link:camera-specs-we-got-wrong-2026:source:jp.omsystem.com" data-goatcounter-title="Article source: jp.omsystem.com">with battery and card</a> it's 325 g, the way we list every camera.</p>
+<p>Fujifilm's XF 55-200mm was listed at 175 mm, its length zoomed all the way out. <a href="https://www.fujifilm-x.com/global/products/lenses/xf55-200mmf35-48-r-lm-ois/specifications/" target="_blank" rel="noopener" data-goatcounter-click="article-link:camera-specs-we-got-wrong-2026:source:fujifilm-x.com" data-goatcounter-title="Article source: fujifilm-x.com">At rest</a> it's 118 mm.</p>
 
-<h2>6. Right lens, wrong mount</h2>
-<p>Third-party lenses are made for several mounts, and the sizes differ. 19 of the 22 Sigma L-Mount lenses we checked were carrying their Sony E-mount dimensions.</p>
-<p><a href="https://www.sigma-global.com/en/lenses/a024_24_70_28_ii/" target="_blank" rel="noopener" data-goatcounter-click="article-link:camera-specs-we-got-wrong-2026:source:sigma-global.com" data-goatcounter-title="Article source: sigma-global.com">Sigma’s spec tables</a> list each mount separately, and the L-Mount versions are usually a couple of millimeters shorter. Browse the corrected <a href="../mount/l-mount" data-goatcounter-click="article-link:camera-specs-we-got-wrong-2026:mount/l-mount" data-goatcounter-title="Article link: L-Mount lenses">L-Mount lenses</a>.</p>
+<h2>6. Same lens, many mounts</h2>
+<p>Sigma makes most of its lenses for several camera systems. Of the 56 current Sigma lenses in our database, 44 are sold for more than one mount, and 34 of those weigh differently from one mount to the next.</p>
+<p><a href="https://www.sigma-global.com/en/lenses/c018_56_14/" target="_blank" rel="noopener" data-goatcounter-click="article-link:camera-specs-we-got-wrong-2026:source:sigma-global.com" data-goatcounter-title="Article source: sigma-global.com">Sigma's page for the 56mm f/1.4</a> lists 7 mounts, from 256 g on Micro Four Thirds to 295 g on Nikon Z. Each mount has its own diameter and sits a different distance from the sensor, so the barrel changes. Same glass, different lens.</p>
+<p>That's what caught us. 19 of the 22 Sigma L-Mount lenses we checked were carrying their Sony E-mount dimensions, read from the wrong row of <a href="https://www.sigma-global.com/en/lenses/a024_24_70_28_ii/" target="_blank" rel="noopener" data-goatcounter-click="article-link:camera-specs-we-got-wrong-2026:source:sigma-global.com" data-goatcounter-title="Article source: sigma-global.com">Sigma's spec table</a>. L-Mount sits 2 mm further from the sensor than Sony E (20 mm vs 18 mm), so L-Mount barrels are usually about 2 mm shorter. Browse the corrected <a href="../mount/l-mount" data-goatcounter-click="article-link:camera-specs-we-got-wrong-2026:mount/l-mount" data-goatcounter-title="Article link: L-Mount lenses">L-Mount lenses</a>, or <a href="../mount/z-mount" data-goatcounter-click="article-link:camera-specs-we-got-wrong-2026:mount/z-mount" data-goatcounter-title="Article link: every Nikon Z lens">every Nikon Z lens</a>.</p>
+
+<h2>7. Wikipedia isn't the maker</h2>
+<p>When we first added <a href="../olympus/" data-goatcounter-click="article-link:camera-specs-we-got-wrong-2026:olympus/" data-goatcounter-title="Article link: Olympus">Olympus</a>, most of its cameras cited Wikipedia. Then we checked them against Olympus's own spec sheets.</p>
+<p>The E-M5 Mark II's battery life, as we'd taken it from Wikipedia, was 580 shots. <a href="https://jp.omsystem.com/cms/record/dslr/em5mk2/spec.pdf" target="_blank" rel="noopener" data-goatcounter-click="article-link:camera-specs-we-got-wrong-2026:source:jp.omsystem.com" data-goatcounter-title="Article source: jp.omsystem.com">Olympus says</a> 310, or 750 in power-saving mode. 580 matches neither. The PEN-F was 7 g off and the E-M10 Mark II 9 g.</p>
+<p>And the E-PL5's 279 g wasn't wrong, just body only. <a href="https://jp.omsystem.com/cms/record/dslr/epl5/spec.pdf" target="_blank" rel="noopener" data-goatcounter-click="article-link:camera-specs-we-got-wrong-2026:source:jp.omsystem.com" data-goatcounter-title="Article source: jp.omsystem.com">With battery and card</a>, the way we list every camera, it's 325 g. Wikipedia is only as good as the reviews and spec sites it cites, which brings us back to everyone copying everyone.</p>
+
+<h2>8. When the maker's page disappears</h2>
+<p>Makers quietly delete old spec pages. For 10 older Fujifilm cameras, including the original X100 and X-Pro1, the spec pages now redirect to Fujifilm's home page. Only the owner's manuals are left.</p>
+<p>Olympus is worse: 10 older cameras have no maker spec page left at all. For others, the archive is a picture of the old page, which we had to run through text recognition, in Japanese.</p>
+<p><a href="../leica/" data-goatcounter-click="article-link:camera-specs-we-got-wrong-2026:leica/" data-goatcounter-title="Article link: Leica">Leica</a>'s PDFs vanish too: 12 of the camera spec sheets we'd cited, and 17 of 48 lens sheets, now return errors. Once the maker's page is gone, the secondhand copies become the only record, mistakes and all.</p>
 
 <h2>How to spot a bad spec</h2>
 <ul class="guide-links">
 <li><strong>Two models, same numbers?</strong> Suspicious. New bodies rarely match old ones to the millimeter.</li>
-<li><strong>Check what's included.</strong> Battery and card? Hood? Zoomed in or out?</li>
+<li><strong>Check what's included.</strong> Battery and card? Hood? Zoomed in or out? Which mount?</li>
 <li><strong>Go to the maker.</strong> If the maker doesn't claim it (weather sealing, especially), don't believe it.</li>
+<li><strong>No source, no trust.</strong> A figure nobody can trace is a guess.</li>
 </ul>
-<p>Nobody's safe. Fujifilm, the brand I shoot with, had 19 mismatches across its first 13 cameras. Even my own X-S20 was 0.6 mm too short and missing its <a href="https://www.fujifilm-x.com/global/products/cameras/x-s20/specifications/" target="_blank" rel="noopener" data-goatcounter-click="article-link:camera-specs-we-got-wrong-2026:source:fujifilm-x.com" data-goatcounter-title="Article source: fujifilm-x.com">UHS-II card support</a>.</p>
 
 <h2>What we do now</h2>
-<p>Every camera and lens we've checked now links to its maker's own spec page, shown under References in the <a href="../compare/" data-goatcounter-click="article-link:camera-specs-we-got-wrong-2026:compare/" data-goatcounter-title="Article link: comparison tool">comparison tool</a>. That's 1,369 so far, and counting. <a href="../about" data-goatcounter-click="article-link:camera-specs-we-got-wrong-2026:about" data-goatcounter-title="Article link: How we source our data">How we source our data</a>.</p>
+<p>Every camera and lens we check now links to its maker's own spec page, shown under References in the <a href="../compare/" data-goatcounter-click="article-link:camera-specs-we-got-wrong-2026:compare/" data-goatcounter-title="Article link: comparison tool">comparison tool</a>. That's 1,369 so far, and counting. <a href="../about" data-goatcounter-click="article-link:camera-specs-we-got-wrong-2026:about" data-goatcounter-title="Article link: How we source our data">How we source our data</a>.</p>
       <p class="guide-dated">Published <time datetime="2026-11-18">18 November 2026</time>. Specs and prices change; the <a href="../compare/">comparison tool</a> always shows today's numbers.</p>
     </article>
   </main>

diff --git a/index.html b/index.html
@@ -331,7 +331,7 @@
       <ul class="guide-index">
         <li><a class="size-hub-card" href="./articles/camera-specs-we-got-wrong-2026" data-goatcounter-click="article-pick:home:camera-specs-we-got-wrong-2026" data-goatcounter-title="Article pick: The camera specs we got wrong (and why it happens)">
           <span class="size-hub-title">The camera specs we got wrong (and why it happens)</span>
-          <span class="size-hub-text">We checked every spec against the maker. The maker won. Often.</span>
+          <span class="size-hub-text">We checked our specs against the makers. The makers won. Often.</span>
           <span class="brand-go">Read the article &rarr;</span>
         </a></li>
       </ul>

diff --git a/articles/index.html b/articles/index.html
@@ -150,7 +150,7 @@
     <ul class="guide-index">
       <li><a class="size-hub-card" href="camera-specs-we-got-wrong-2026" data-goatcounter-click="article-link:index:camera-specs-we-got-wrong-2026" data-goatcounter-title="Article index: The camera specs we got wrong (and why it happens)">
         <span class="size-hub-title">The camera specs we got wrong (and why it happens)</span>
-        <span class="size-hub-text">We checked every spec against the maker. The maker won. Often.</span>
+        <span class="size-hub-text">We checked our specs against the makers. The makers won. Often.</span>
         <span class="brand-go">Read &rarr;</span>
       </a></li>
     </ul>
